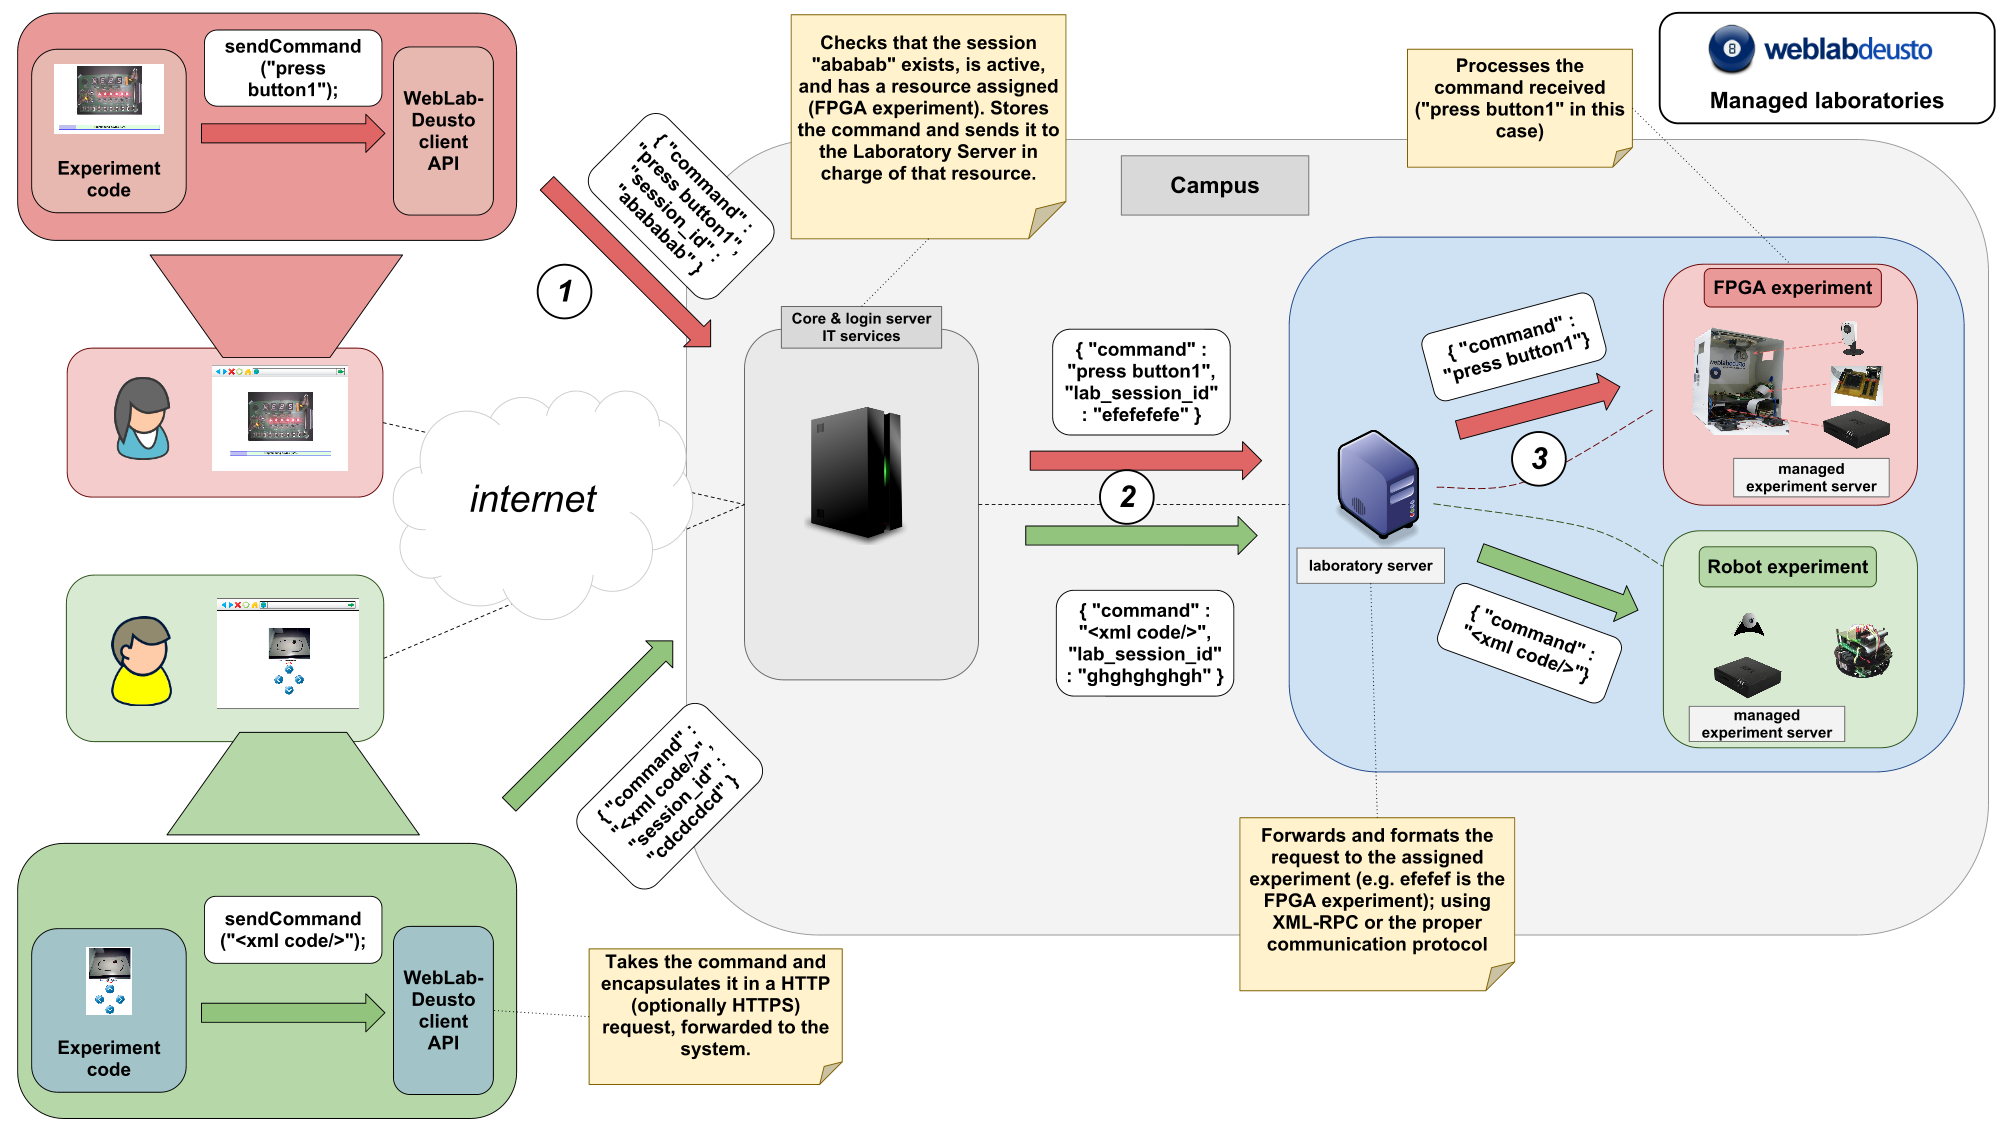
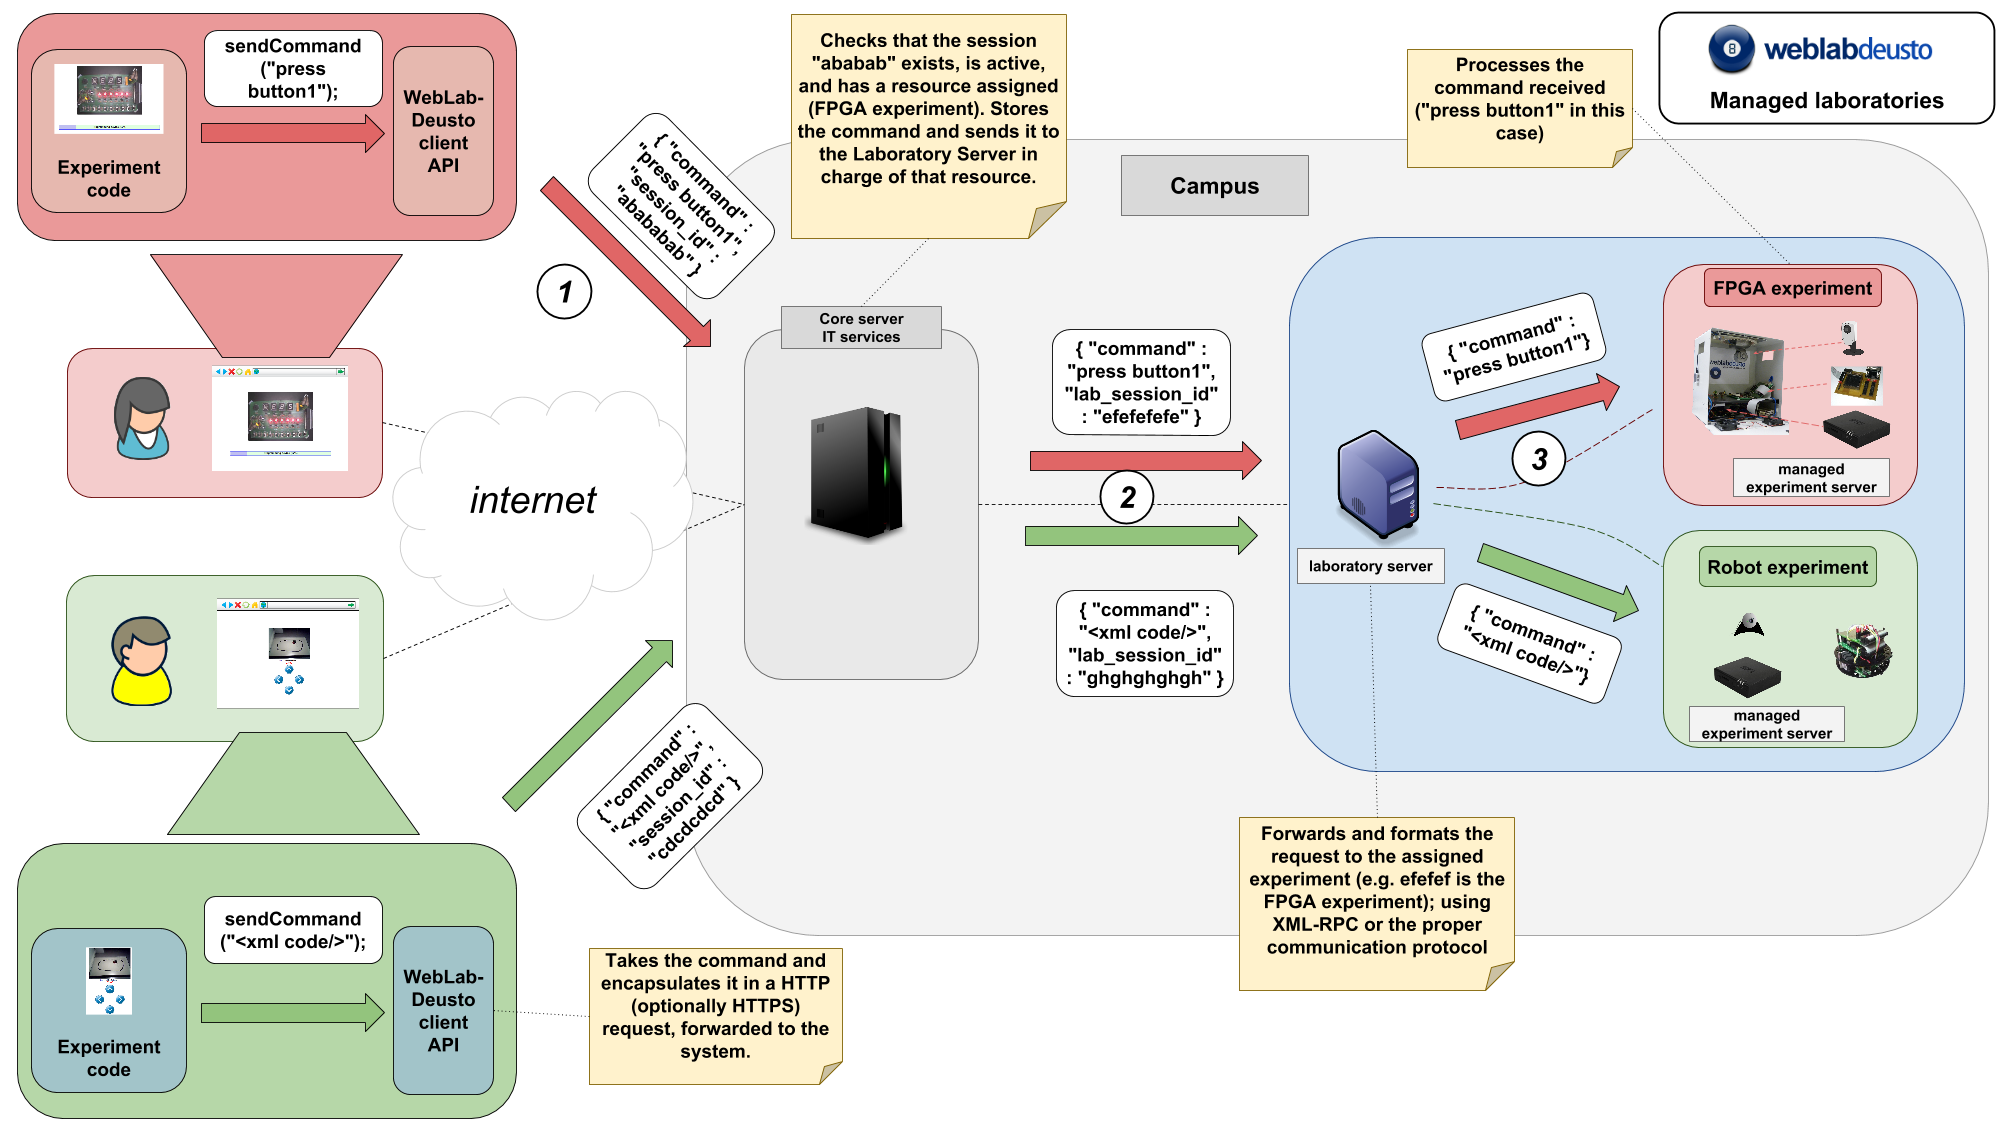
Add managed model without login server

diff --git a/docs/source/remote_lab_development.rst b/docs/source/remote_lab_development.rst
@@ -99,7 +99,7 @@ This way, WebLab-Deusto still manages the reservation process, authentication (i
 
 The main **drawbacks** of unmanaged laboratories is that:
 
-* They might cause problems with **proxies or firewalls**, since the communication is managed by the final system. Improper configurations (i.e., establishing a wrong port for the web server) could cause problems.
+* They might cause problems with **proxies or firewalls**, since the communication is managed by the final system. Improper configurations (i.e., establishing a wrong port for the web server and not relying on a web server acting as a proxy) could cause problems.
 * The **user tracking** functionality is decreased: WebLab-Deusto still registers who uses what and when, but not what the user did during the session.
 
 Additionally, this is more complex to deploy for system administrators.
@@ -133,10 +133,16 @@ As previously defined, in the managed laboratories, all the communications are
 managed by WebLab-Deusto. This basically means that, as seen on the following
 figure, the client code will call a set of methods such as:
 
-.. code-block:: java
+.. code-block:: javascript
 
    // In the client side
-   weblab.sendCommand("press button1");
+   weblab.sendCommand("press button1")
+       .done(function (response) {
+           console.log(response);
+       })
+       .fail(function (error) {
+           console.log(error);
+       });
 
 And WebLab-Deusto guarantees that this string will be forwarded to the proper
 experiment server. In the experiment server, there will be a method such as (in
